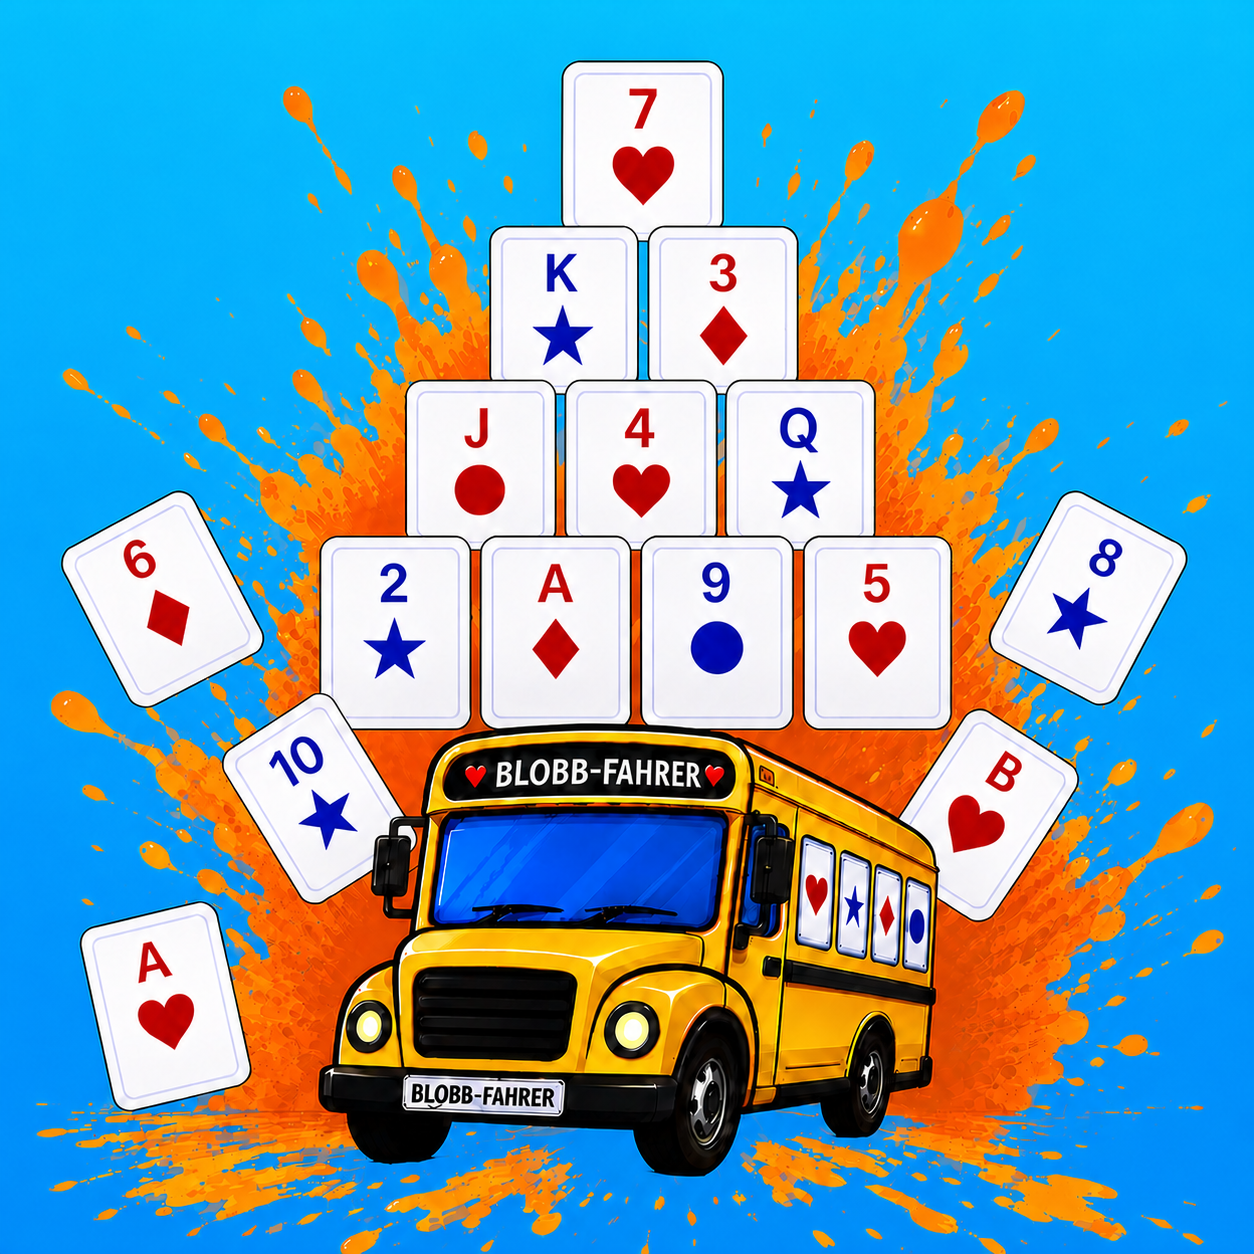
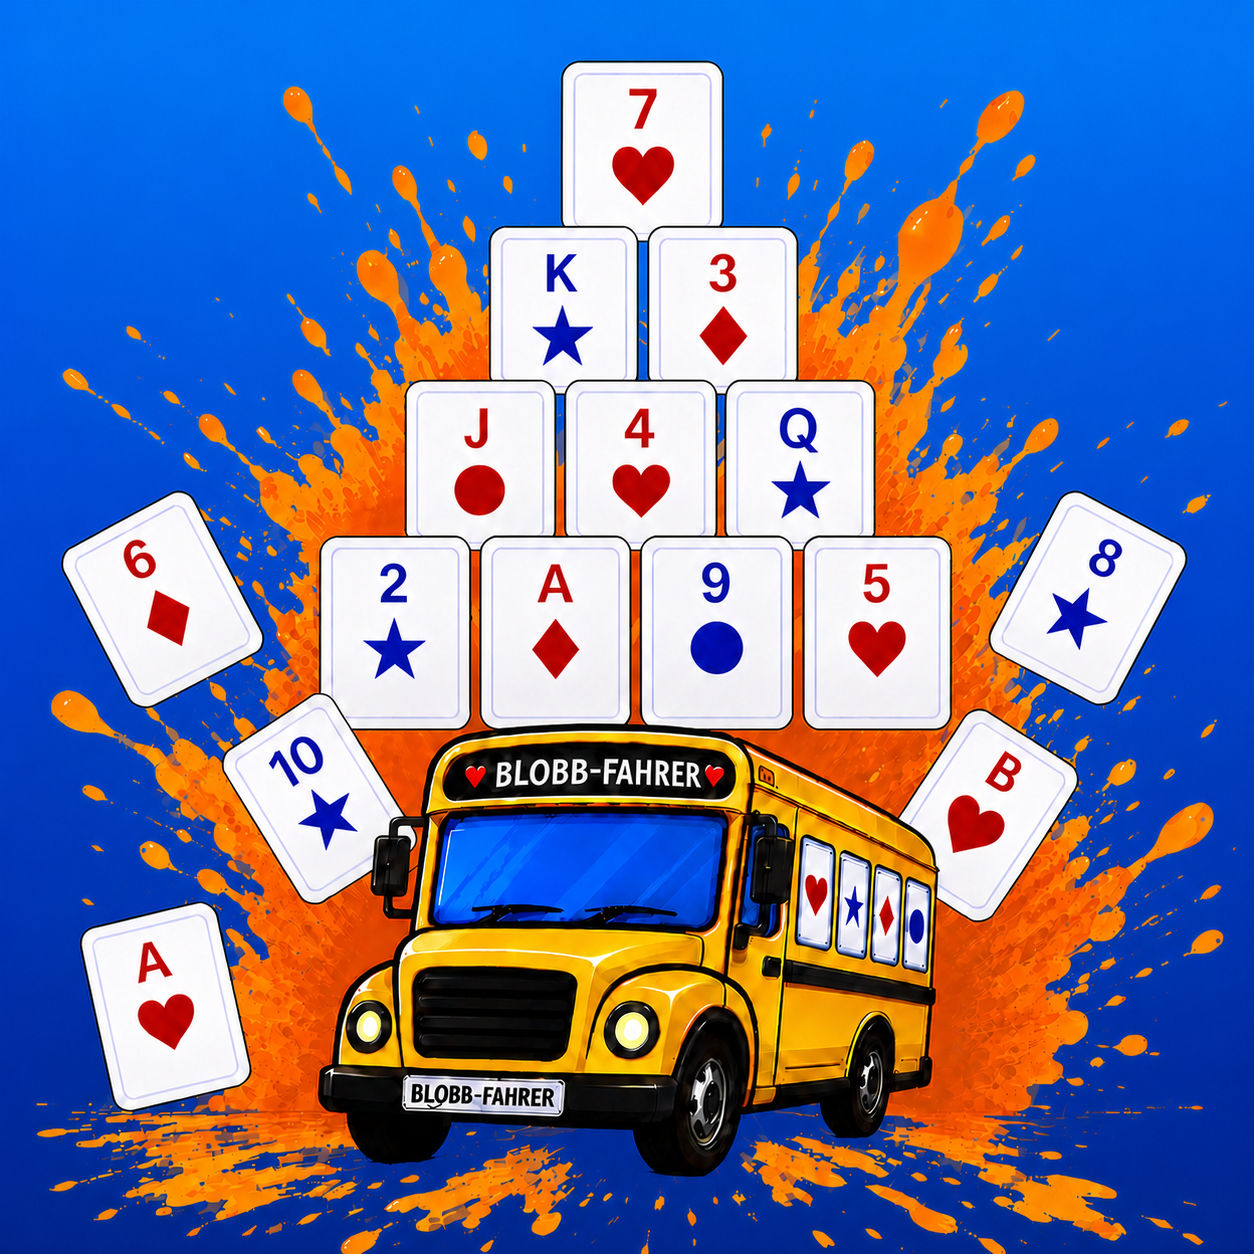
Deepen homepage tile water colors

diff --git a/src/style.css b/src/style.css
@@ -278,10 +278,10 @@ body {
 .klatschen-home-button {
   background: linear-gradient(
     180deg,
-    #36c9f7 0%,
-    #10afea 24%,
-    #079be0 62%,
-    #0575c5 100%
+    #29b9ee 0%,
+    #108edb 28%,
+    #086fc8 62%,
+    #06489f 100%
   );
 }
 
@@ -831,12 +831,12 @@ html.is-standalone #app > .setup-page > .setup-shell {
 .home-page .busfahrer-button {
   border-color: rgba(255, 255, 255, .58);
   box-shadow:
-    inset 0 4px 3px rgba(244, 253, 255, .78),
-    inset 0 -6px 8px rgba(0, 49, 126, .45),
-    inset 4px 0 5px rgba(136, 228, 255, .28),
-    inset -4px 0 5px rgba(0, 64, 151, .26),
-    0 0 0 1px rgba(191, 241, 255, .22),
-    0 0 15px rgba(74, 188, 255, .24),
+    inset 0 4px 3px rgba(244, 253, 255, .76),
+    inset 0 -6px 8px rgba(0, 31, 91, .48),
+    inset 4px 0 5px rgba(124, 218, 255, .26),
+    inset -4px 0 5px rgba(0, 42, 112, .30),
+    0 0 0 1px rgba(191, 241, 255, .24),
+    0 0 15px rgba(41, 130, 223, .25),
     0 12px 28px rgba(0, 0, 0, .36);
   transition: transform 150ms ease, box-shadow 160ms ease, filter 160ms ease;
 }